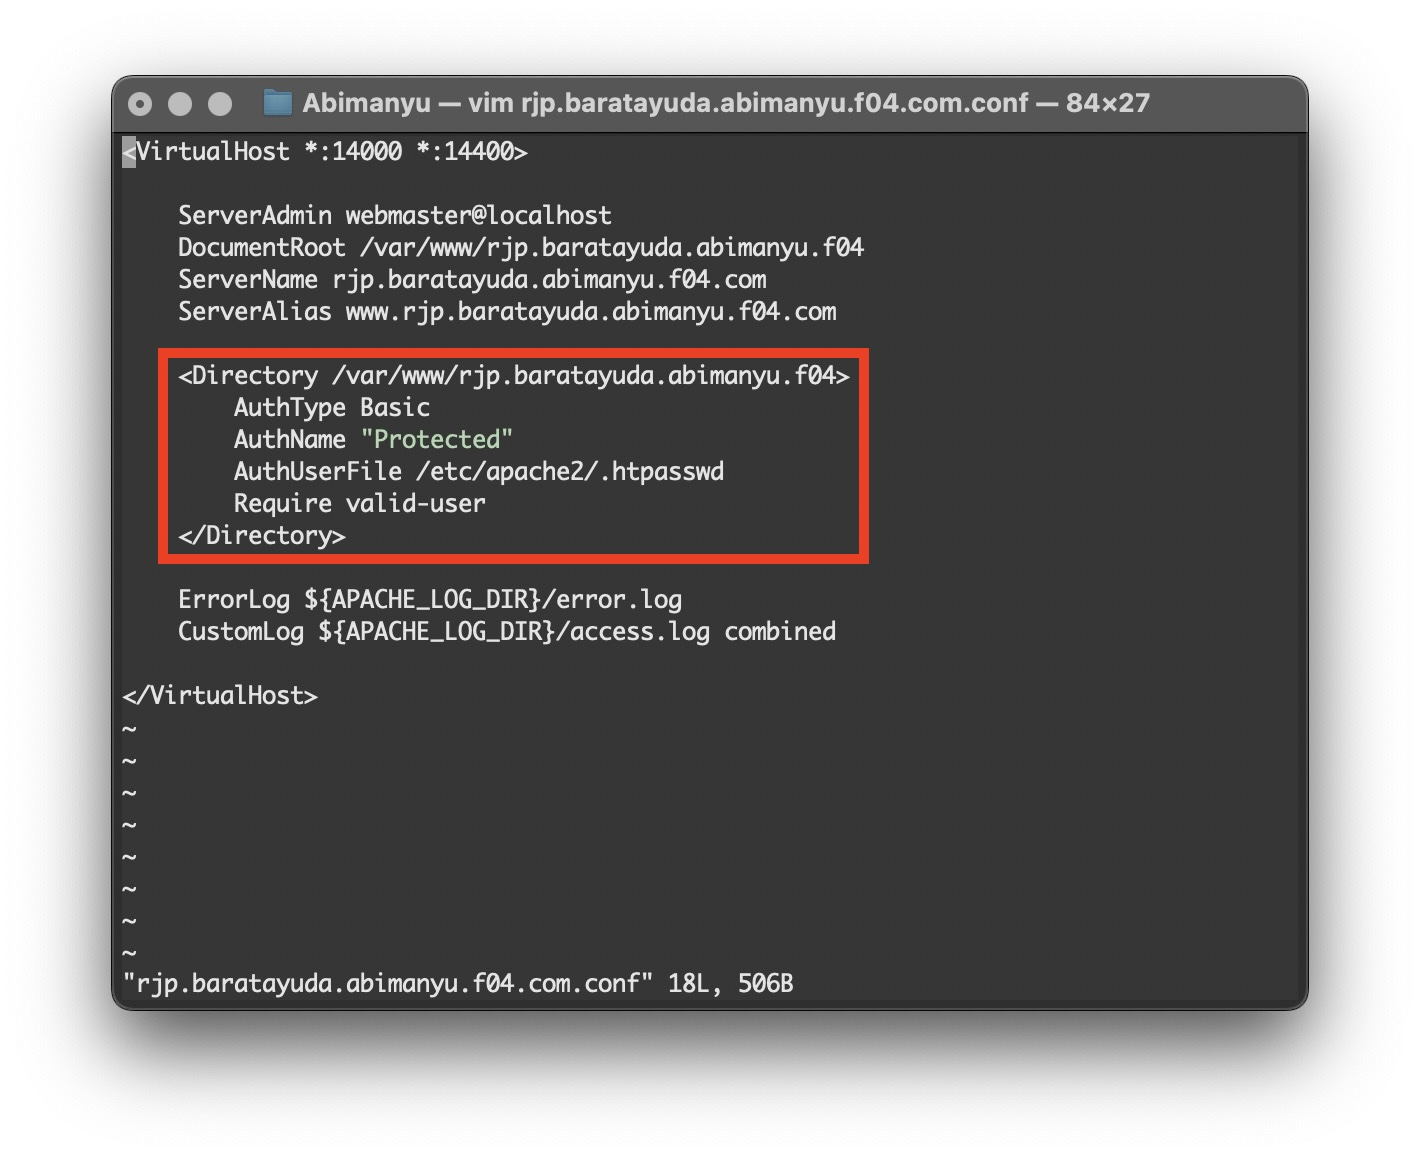
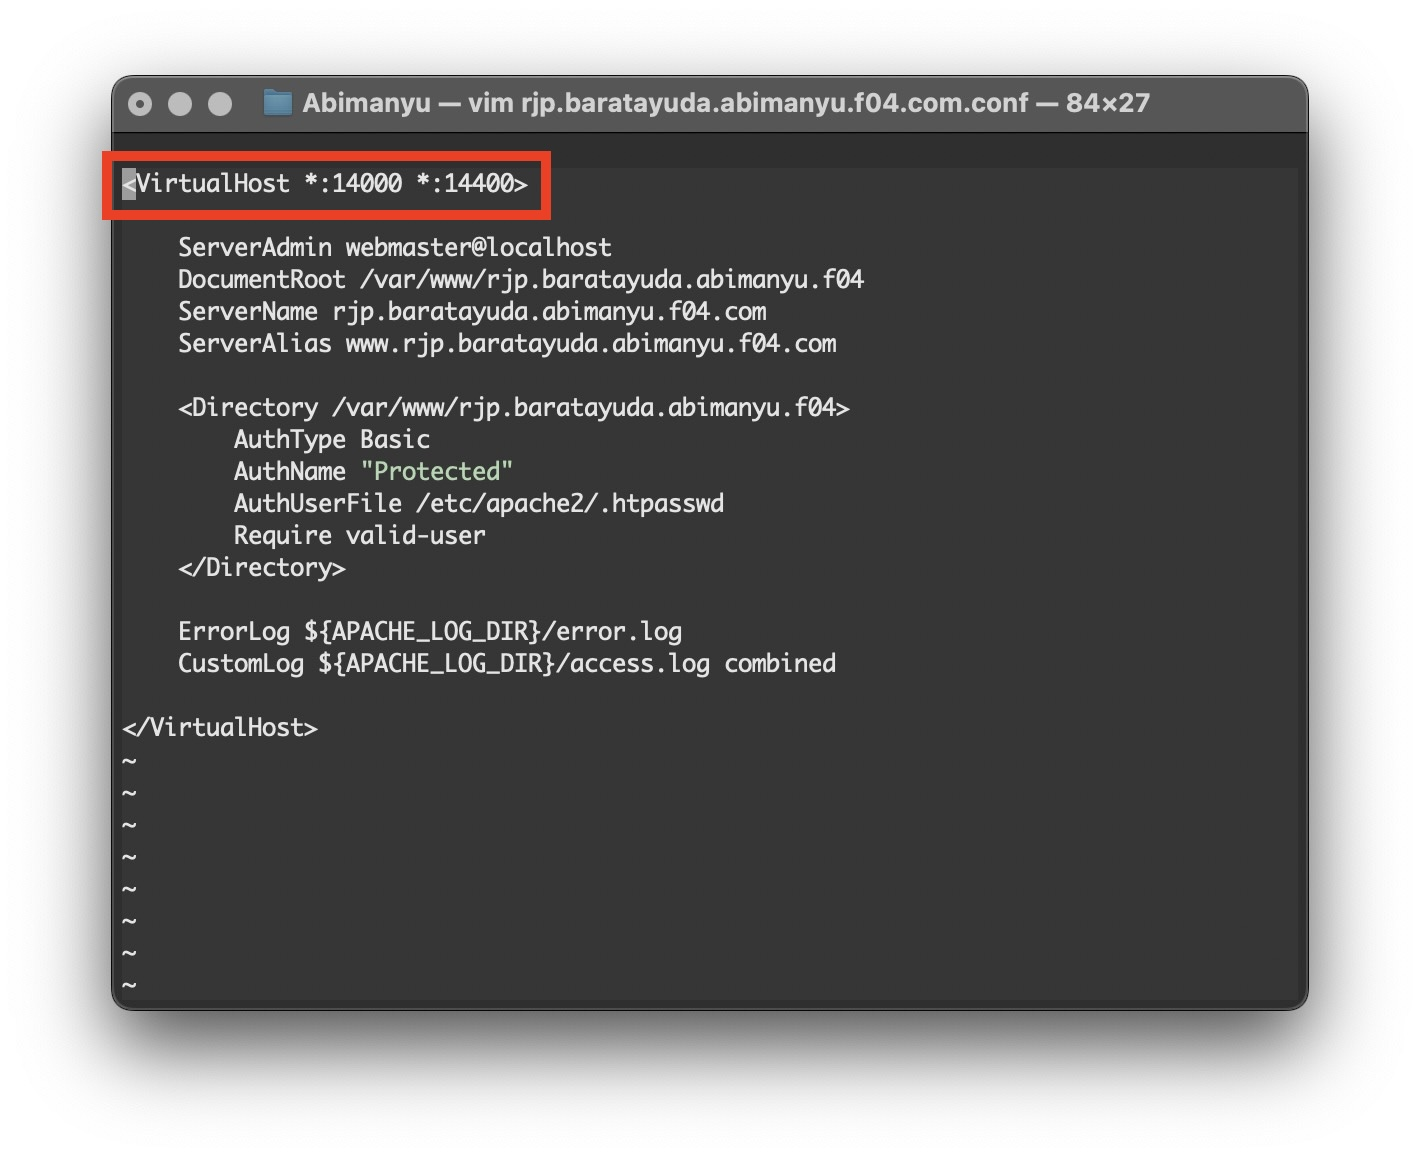
fix: change 17-c image

Changed region(s): [[0.062, 0.1244, 0.6197, 0.6528], [0.093, 0.8394, 0.4958, 0.8705], [0.5268, 0.8394, 0.5577, 0.8705]]

diff --git a/README.md b/README.md
@@ -359,11 +359,17 @@ Agar aman, buatlah konfigurasi agar www.rjp.baratayuda.abimanyu.yyy.com hanya da
 /root/rjp.baratayuda.abimanyu.f04.com.conf
 ![17-c](images/17-c.jpg)
 
-<!-- 
 ## Soal 18
 
 Untuk mengaksesnya buatlah autentikasi username berupa “Wayang” dan password “baratayudayyy” dengan yyy merupakan kode kelompok. Letakkan DocumentRoot pada /var/www/rjp.baratayuda.abimanyu.yyy.
 
+<hr style="width:60%;text-align:center">
+
+**Abimanyu**<br>
+/root/script.sh
+![17-a](images/17-a.jpg)
+
+<!-- 
 
 ## Soal 19
 
